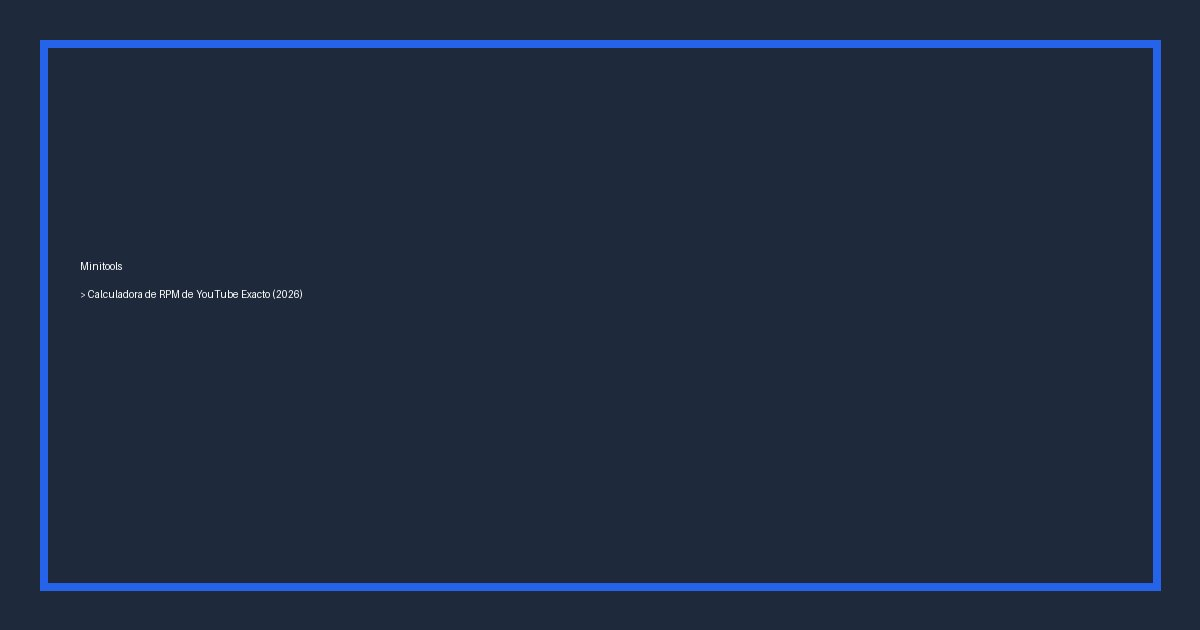
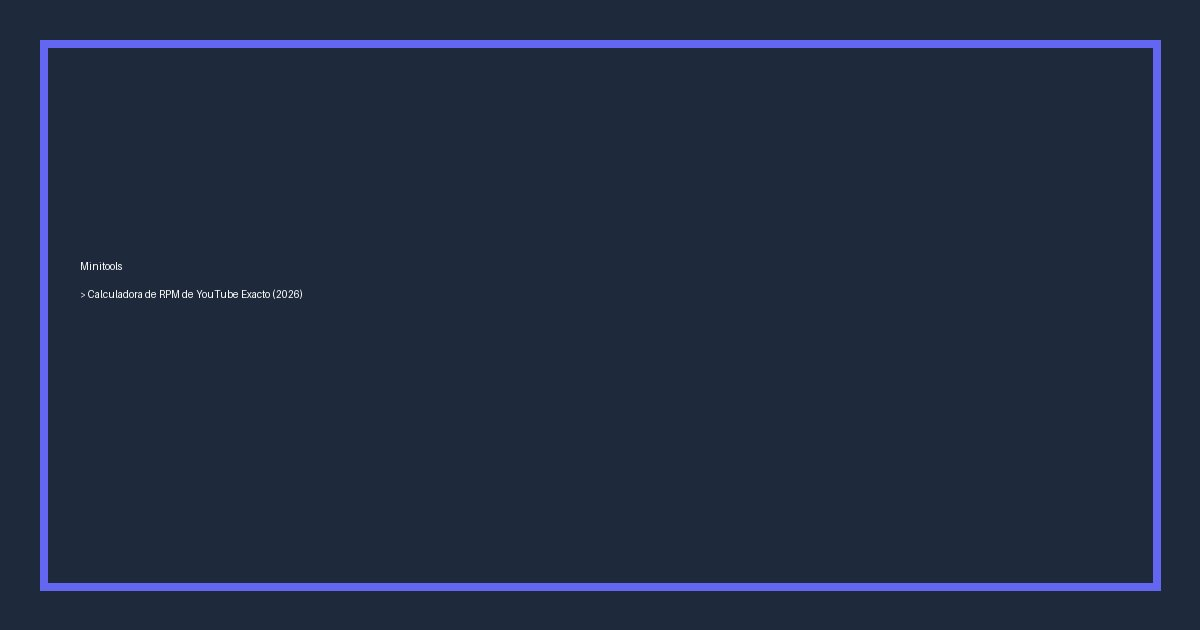
Deploying to gh-pages from @ unaiburguete-bot/minitools@ccc330f810e32dcb5d2f24d2b7694cdf614cd174 🚀

Changed region(s): [[0.0308, 0.0603, 0.9867, 0.9651]]

diff --git a/index.html b/index.html
@@ -3,24 +3,26 @@
     <head>
         <meta charset="UTF-8">
         <meta name="viewport" content="width=device-width, initial-scale=1.0">
-        <title>Minitools | Directorio de Herramientas Programáticas</title>
+        <title>Minitools Factory | Directorio Inteligente</title>
+        <link href="https://fonts.googleapis.com/css2?family=Plus+Jakarta+Sans:wght@400;600;800&display=swap" rel="stylesheet">
         <style>
-            body { font-family: system-ui, sans-serif; background: #f8fafc; color: #0f172a; margin: 0; padding: 40px 20px; }
-            .container { max-width: 800px; margin: 0 auto; background: white; padding: 40px; border-radius: 12px; box-shadow: 0 4px 6px -1px rgba(0,0,0,0.05); border: 1px solid #e2e8f0; }
-            h1 { margin-top: 0; color: #1e293b; font-size: 2.2rem; }
-            ul { padding-left: 20px; margin-top: 20px; }
-            li { margin-bottom: 15px; }
+            body { font-family: 'Plus Jakarta Sans', sans-serif; background: #f8fafc; color: #0f172a; margin: 0; padding: 60px 20px; -webkit-font-smoothing: antialiased; }
+            .container { max-width: 1000px; margin: 0 auto; }
+            .hero { text-align: center; margin-bottom: 50px; }
+            .hero h1 { font-size: 3rem; font-weight: 800; letter-spacing: -0.04em; margin-bottom: 12px; color: #1e293b; }
+            .hero p { color: #64748b; font-size: 1.2rem; max-width: 600px; margin: 0 auto; }
+            .grid { display: grid; grid-template-columns: repeat(auto-fill, minmax(300px, 1fr)); gap: 24px; margin-top: 40px; }
         </style>
     </head>
     <body>
         <div class="container">
-            <h1>🛠️ Minitools Factory</h1>
-            <p style="color: #64748b; font-size: 1.1rem;">Bienvenido al centro de mandos de tu catálogo semántico. El sistema mapea tus datos y actualiza este índice automáticamente en cada despliegue.</p>
-            <hr style="border: 0; border-top: 1px solid #e2e8f0; margin: 30px 0;">
-            <h2 style="color: #334155; font-size: 1.4rem;">Herramientas Activas en el Ecosistema:</h2>
-            <ul>
-                <li><a href="./es/youtube/monetizacion/rpm-youtube/" style="color: #2563eb; font-weight: bold; text-decoration: none; font-size: 1.1rem;">Calculadora de RPM de YouTube Exacto (2026)</a> <span style="color:#64748b; font-size:0.85rem;">(ES)</span></li>
-            </ul>
+            <div class="hero">
+                <h1>⚡ Minitools Factory</h1>
+                <p>Calculadoras mecánicas y aplicaciones semánticas de rendimiento atómico. Sin anuncios invasivos ni rastreadores.</p>
+            </div>
+            <div class="grid">
+                <div style="background: white; border: 1px solid #e2e8f0; padding: 24px; border-radius: 16px; box-shadow: 0 4px 6px -1px rgba(0,0,0,0.02); transition: all 0.2s;" onmouseover="this.style.borderColor='#6366f1'; this.style.transform='translateY(-2px)';" onmouseout="this.style.borderColor='#e2e8f0'; this.style.transform='translateY(0)';"><span style="background: #eef2ff; color: #4f46e5; font-size: 0.75rem; font-weight: 700; padding: 4px 8px; border-radius: 6px; text-transform: uppercase;">YouTube</span><h3 style="margin: 12px 0 8px 0; font-size: 1.25rem; font-weight: 800; letter-spacing: -0.02em;"><a href="./es/youtube/monetizacion/rpm-youtube/" style="color: #0f172a; text-decoration: none;">Calculadora de RPM de YouTube Exacto (2026)</a></h3><p style="color: #64748b; font-size: 0.95rem; margin: 0;">Calcula cuánto dinero genera tu canal de YouTube según tu RPM y visitas de forma automática.</p></div>
+            </div>
         </div>
     </body>
     </html>

diff --git a/es/youtube/monetizacion/rpm-youtube/index.html b/es/youtube/monetizacion/rpm-youtube/index.html
@@ -245,11 +245,11 @@
                 <h1>¿Cuánto dinero paga YouTube por tus visitas? Calcular RPM Exacto</h1>
                 <div class="tool-ui-box">
                     
-            <label style="display:block; margin-top:10px; font-weight:bold;">Número de Visitas Totales</label><input type="number" id="visitas" placeholder="Ej. 100000" style="width:100%; padding:10px; margin-top:5px; border:1px solid #cbd5e1; border-radius:6px;"><label style="display:block; margin-top:10px; font-weight:bold;">Tu RPM Estimado (€)</label><input type="number" id="rpm" placeholder="Ej. 4.25" style="width:100%; padding:10px; margin-top:5px; border:1px solid #cbd5e1; border-radius:6px;">
-            <button onclick="calcular_rpm-youtube()" style="width:100%; background:#2563eb; color:white; border:none; padding:12px; font-weight:bold; margin-top:15px; border-radius:6px; cursor:pointer;">Calcular Ahora</button>
-            <div id="res_rpm-youtube" style="margin-top:15px; padding:15px; background:#f1f5f9; border-radius:6px; text-align:center; font-weight:bold; display:none;"></div>
+            <label>Número de Visitas Totales</label><input type="number" id="visitas" placeholder="Ej. 100000" oninput="calcular_rpm_youtube()"> <label>Tu RPM Estimado (€)</label><input type="number" id="rpm" placeholder="Ej. 4.25" oninput="calcular_rpm_youtube()"> 
+            <button onclick="calcular_rpm_youtube()" class="calc-btn">Calcular Ahora ⚡</button>
+            <div id="res_rpm-youtube" class="calc-result-box" style="display:none;"></div>
             <script>
-                function calcular_rpm-youtube() {
+                function calcular_rpm_youtube() {
                     let valores = {};
                     valores['inputs.visitas'] = parseFloat(document.getElementById('visitas').value || 0);valores['inputs.rpm'] = parseFloat(document.getElementById('rpm').value || 0);
                     valores['bloques_mil'] = valores['inputs.visitas'] / 1000;
@@ -257,7 +257,7 @@ valores['ingresos_totales'] = valores['bloques_mil'] * valores['inputs.rpm'];
 
                     let resDiv = document.getElementById('res_rpm-youtube');
                     resDiv.style.display = 'block';
-                    resDiv.innerHTML = 'Ingresos Totales Estimados: ' + valores['ingresos_totales'].toFixed(2) + ' €';
+                    resDiv.innerHTML = 'Ingresos Totales Estimados: ' + valores['ingresos_totales'].toLocaleString('es-ES', {maximumFractionDigits: 2}) + ' €';
                 }
             </script>
         